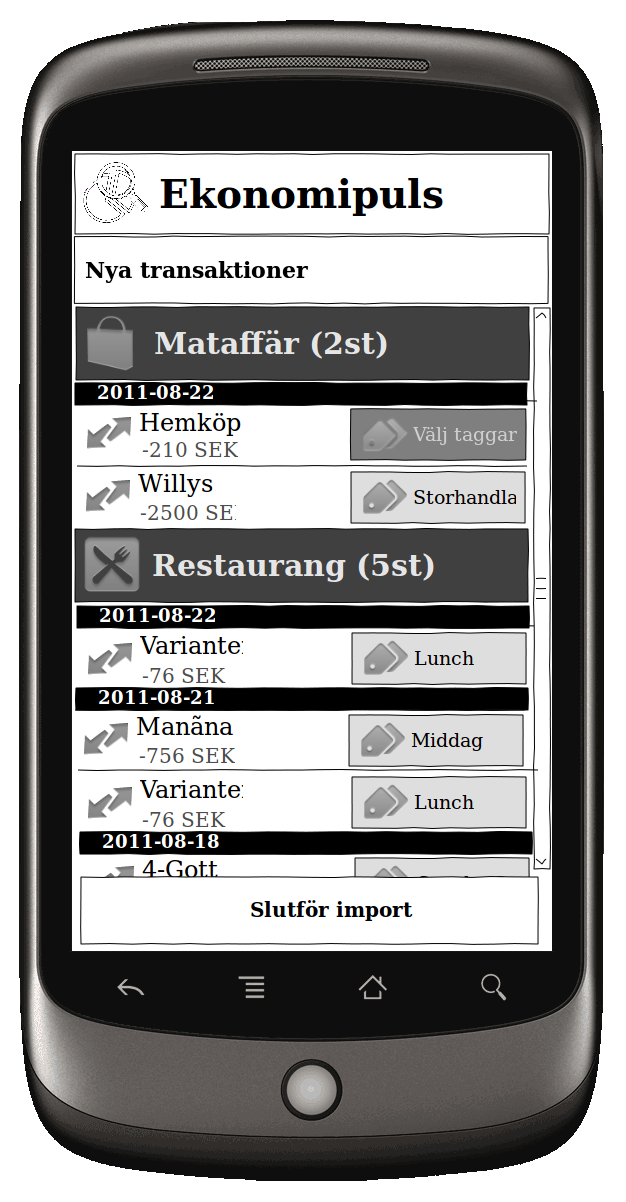
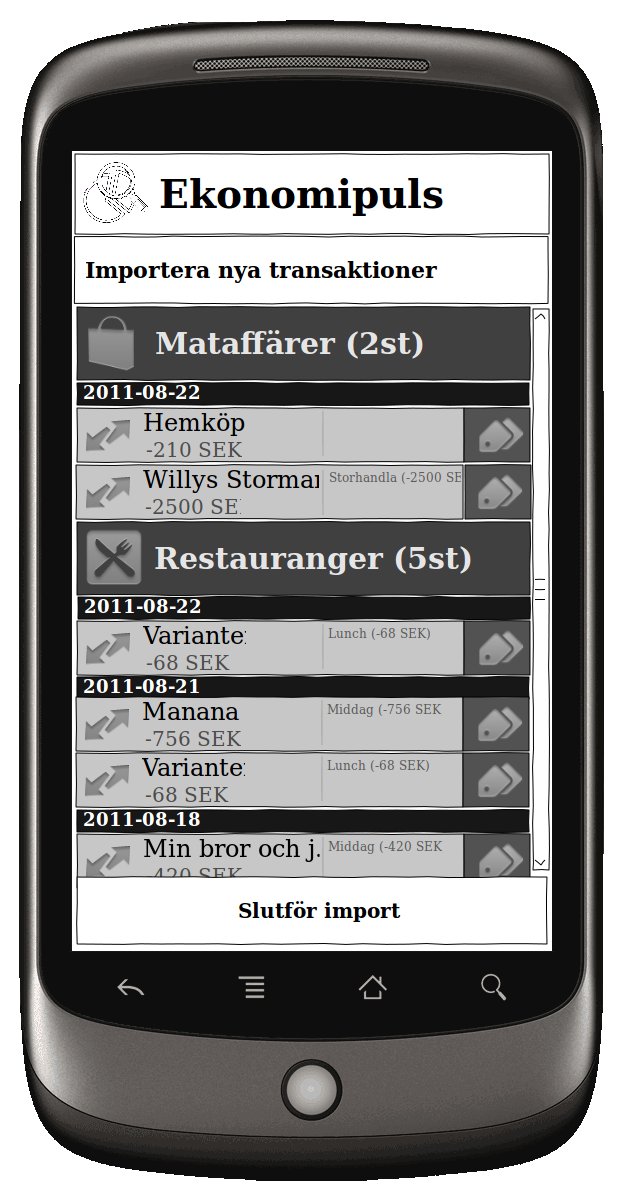
Updating mockup

Changed region(s): [[0.0911, 0.2463, 0.8802, 0.8003], [0.1214, 0.2155, 0.6981, 0.2463]]

diff --git a/mockup/index.html b/mockup/index.html
@@ -4,34 +4,36 @@
                     $('body').layout({ applyDefaultStyles: true,
                             minSize:140 });
                     });
-                </SCRIPT></head><body><div id="leftpanel" class="ui-layout-west"><div class="ThumbContainer"><a href="#wizard_install_bankdroid_page"><img src="pages/wizard_install_bankdroid.png" style="min-width: 100px;" /><hr /><span class="number">1/15</span> -
-                                    Wizard Install BankDroid</a></div><div class="ThumbContainer"><a href="#install_bankdroid_page"><img src="pages/install_bankdroid.png" style="min-width: 100px;" /><hr /><span class="number">2/15</span> -
-                                    Install BankDroid</a></div><div class="ThumbContainer"><a href="#wizard_pair_applications_page"><img src="pages/wizard_pair_applications.png" style="min-width: 100px;" /><hr /><span class="number">3/15</span> -
-                                    Wizard Pair Applications</a></div><div class="ThumbContainer"><a href="#pair_applications_page"><img src="pages/pair_applications.png" style="min-width: 100px;" /><hr /><span class="number">4/15</span> -
-                                    Pair Applications</a></div><div class="ThumbContainer"><a href="#wizard_add_bank_page"><img src="pages/wizard_add_bank.png" style="min-width: 100px;" /><hr /><span class="number">5/15</span> -
-                                    Wizard Add Bank</a></div><div class="ThumbContainer"><a href="#add_bank_page"><img src="pages/add_bank.png" style="min-width: 100px;" /><hr /><span class="number">6/15</span> -
-                                    Add Bank</a></div><div class="ThumbContainer"><a href="#wizard_pick_accounts_page"><img src="pages/wizard_pick_accounts.png" style="min-width: 100px;" /><hr /><span class="number">7/15</span> -
-                                    Wizard Pick Accounts</a></div><div class="ThumbContainer"><a href="#pick_accounts_page"><img src="pages/pick_accounts.png" style="min-width: 100px;" /><hr /><span class="number">8/15</span> -
-                                    Pick Accounts</a></div><div class="ThumbContainer"><a href="#wizard_initial_import_page"><img src="pages/wizard_initial_import.png" style="min-width: 100px;" /><hr /><span class="number">9/15</span> -
-                                    Wizard Initial Import</a></div><div class="ThumbContainer"><a href="#deduplicate_page"><img src="pages/deduplicate.png" style="min-width: 100px;" /><hr /><span class="number">10/15</span> -
-                                    Deduplicate</a></div><div class="ThumbContainer"><a href="#initial_import_page"><img src="pages/initial_import.png" style="min-width: 100px;" /><hr /><span class="number">11/15</span> -
-                                    Initial Import</a></div><div class="ThumbContainer"><a href="#initial_import_pick_tag_1_page"><img src="pages/initial_import_pick_tag_1.png" style="min-width: 100px;" /><hr /><span class="number">12/15</span> -
-                                    Initial Import Pick Tag 1</a></div><div class="ThumbContainer"><a href="#split_amount_page"><img src="pages/split_amount.png" style="min-width: 100px;" /><hr /><span class="number">13/15</span> -
-                                    Split Amount</a></div><div class="ThumbContainer"><a href="#initial_import_pick_tag_2_page"><img src="pages/initial_import_pick_tag_2.png" style="min-width: 100px;" /><hr /><span class="number">14/15</span> -
-                                    Initial Import Pick Tag 2</a></div><div class="ThumbContainer"><a href="#report_view_overview_page"><img src="pages/report_view_overview.png" style="min-width: 100px;" /><hr /><span class="number">15/15</span> -
+                </SCRIPT></head><body><div id="leftpanel" class="ui-layout-west"><div class="ThumbContainer"><a href="#wizard_install_bankdroid_page"><img src="pages/wizard_install_bankdroid.png" style="min-width: 100px;" /><hr /><span class="number">1/16</span> -
+                                    Wizard Install BankDroid</a></div><div class="ThumbContainer"><a href="#install_bankdroid_page"><img src="pages/install_bankdroid.png" style="min-width: 100px;" /><hr /><span class="number">2/16</span> -
+                                    Install BankDroid</a></div><div class="ThumbContainer"><a href="#wizard_pair_applications_page"><img src="pages/wizard_pair_applications.png" style="min-width: 100px;" /><hr /><span class="number">3/16</span> -
+                                    Wizard Pair Applications</a></div><div class="ThumbContainer"><a href="#pair_applications_page"><img src="pages/pair_applications.png" style="min-width: 100px;" /><hr /><span class="number">4/16</span> -
+                                    Pair Applications</a></div><div class="ThumbContainer"><a href="#wizard_add_bank_page"><img src="pages/wizard_add_bank.png" style="min-width: 100px;" /><hr /><span class="number">5/16</span> -
+                                    Wizard Add Bank</a></div><div class="ThumbContainer"><a href="#add_bank_page"><img src="pages/add_bank.png" style="min-width: 100px;" /><hr /><span class="number">6/16</span> -
+                                    Add Bank</a></div><div class="ThumbContainer"><a href="#wizard_pick_accounts_page"><img src="pages/wizard_pick_accounts.png" style="min-width: 100px;" /><hr /><span class="number">7/16</span> -
+                                    Wizard Pick Accounts</a></div><div class="ThumbContainer"><a href="#pick_accounts_page"><img src="pages/pick_accounts.png" style="min-width: 100px;" /><hr /><span class="number">8/16</span> -
+                                    Pick Accounts</a></div><div class="ThumbContainer"><a href="#wizard_initial_import_page"><img src="pages/wizard_initial_import.png" style="min-width: 100px;" /><hr /><span class="number">9/16</span> -
+                                    Wizard Initial Import</a></div><div class="ThumbContainer"><a href="#deduplicate_page"><img src="pages/deduplicate.png" style="min-width: 100px;" /><hr /><span class="number">10/16</span> -
+                                    Deduplicate</a></div><div class="ThumbContainer"><a href="#initial_import_page"><img src="pages/initial_import.png" style="min-width: 100px;" /><hr /><span class="number">11/16</span> -
+                                    Initial Import</a></div><div class="ThumbContainer"><a href="#initial_import_pick_tag_1_page"><img src="pages/initial_import_pick_tag_1.png" style="min-width: 100px;" /><hr /><span class="number">12/16</span> -
+                                    Initial Import Pick Tag 1</a></div><div class="ThumbContainer"><a href="#split_amount_page"><img src="pages/split_amount.png" style="min-width: 100px;" /><hr /><span class="number">13/16</span> -
+                                    Split Amount</a></div><div class="ThumbContainer"><a href="#initial_import_pick_tag_2_page"><img src="pages/initial_import_pick_tag_2.png" style="min-width: 100px;" /><hr /><span class="number">14/16</span> -
+                                    Initial Import Pick Tag 2</a></div><div class="ThumbContainer"><a href="#initial_import_w_tags_page"><img src="pages/initial_import_w_tags.png" style="min-width: 100px;" /><hr /><span class="number">15/16</span> -
+                                    Initial Import w/ Tags</a></div><div class="ThumbContainer"><a href="#report_view_overview_page"><img src="pages/report_view_overview.png" style="min-width: 100px;" /><hr /><span class="number">16/16</span> -
                                     Report View Overview</a></div></div><div id="main" class="ui-layout-center"><div class="Page" id="wizard_install_bankdroid_page"><div class="pageTitle">Wizard Install BankDroid<div class="MainNumber">
-                    Page 1/15</div></div><div class="ImageContainer"><img class="raster" style="max-width: 626px;" src="pages/wizard_install_bankdroid.png" usemap="#map_wizard_install_bankdroid" /></div><map name="map_wizard_install_bankdroid"><area shape="rect" coords="77,536,540,610" href="#install_bankdroid_page" title="Go to page 'Install BankDroid'" /></map></div><div class="Page" id="install_bankdroid_page"><div class="pageTitle">Install BankDroid<div class="MainNumber">
-                    Page 2/15</div></div><div class="ImageContainer"><img class="raster" style="max-width: 626px;" src="pages/install_bankdroid.png" usemap="#map_install_bankdroid" /></div><map name="map_install_bankdroid"><area shape="rect" coords="84,869,541,938" href="#wizard_pair_applications_page" title="Go to page 'Wizard Pair Applications'" /></map></div><div class="Page" id="wizard_pair_applications_page"><div class="pageTitle">Wizard Pair Applications<div class="MainNumber">
-                    Page 3/15</div></div><div class="ImageContainer"><img class="raster" style="max-width: 626px;" src="pages/wizard_pair_applications.png" usemap="#map_wizard_pair_applications" /></div><map name="map_wizard_pair_applications"><area shape="rect" coords="76,614,570.2000122070312,690" href="#pair_applications_page" title="Go to page 'Pair Applications'" /></map></div><div class="Page" id="pair_applications_page"><div class="pageTitle">Pair Applications<div class="MainNumber">
-                    Page 4/15</div></div><div class="ImageContainer"><img class="raster" style="max-width: 626px;" src="pages/pair_applications.png" usemap="#map_pair_applications" /></div><map name="map_pair_applications"><area shape="rect" coords="91,869,541,938" href="#wizard_add_bank_page" title="Go to page 'Wizard Add Bank'" /></map></div><div class="Page" id="wizard_add_bank_page"><div class="pageTitle">Wizard Add Bank<div class="MainNumber">
-                    Page 5/15</div></div><div class="ImageContainer"><img class="raster" style="max-width: 626px;" src="pages/wizard_add_bank.png" usemap="#map_wizard_add_bank" /></div><map name="map_wizard_add_bank"><area shape="rect" coords="74,698,546.4166870117188,772" href="#add_bank_page" title="Go to page 'Add Bank'" /></map></div><div class="Page" id="add_bank_page"><div class="pageTitle">Add Bank<div class="MainNumber">
-                    Page 6/15</div></div><div class="ImageContainer"><img class="raster" style="max-width: 626px;" src="pages/add_bank.png" usemap="#map_add_bank" /></div><map name="map_add_bank"><area shape="rect" coords="88,869,541,938" href="#wizard_pick_accounts_page" title="Go to page 'Wizard Pick Accounts'" /></map></div><div class="Page" id="wizard_pick_accounts_page"><div class="pageTitle">Wizard Pick Accounts<div class="MainNumber">
-                    Page 7/15</div></div><div class="ImageContainer"><img class="raster" style="max-width: 626px;" src="pages/wizard_pick_accounts.png" usemap="#map_wizard_pick_accounts" /></div><map name="map_wizard_pick_accounts"><area shape="rect" coords="73,778,545.4166870117188,852" href="#pick_accounts_page" title="Go to page 'Pick Accounts'" /></map></div><div class="Page" id="pick_accounts_page"><div class="pageTitle">Pick Accounts<div class="MainNumber">
-                    Page 8/15</div></div><div class="ImageContainer"><img class="raster" style="max-width: 626px;" src="pages/pick_accounts.png" usemap="#map_pick_accounts" /></div><map name="map_pick_accounts"><area shape="rect" coords="87,869,541,938" href="#wizard_initial_import_page" title="Go to page 'Wizard Initial Import'" /></map></div><div class="Page" id="wizard_initial_import_page"><div class="pageTitle">Wizard Initial Import<div class="MainNumber">
-                    Page 9/15</div></div><div class="ImageContainer"><img class="raster" style="max-width: 626px;" src="pages/wizard_initial_import.png" usemap="#map_wizard_initial_import" /></div><map name="map_wizard_initial_import"><area shape="rect" coords="73,864,545.4166870117188,938" href="#deduplicate_page" title="Go to page 'Deduplicate'" /></map></div><div class="Page" id="deduplicate_page"><div class="pageTitle">Deduplicate<div class="MainNumber">
-                    Page 10/15</div></div><div class="ImageContainer"><img class="raster" style="max-width: 626px;" src="pages/deduplicate.png" usemap="#map_deduplicate" /></div><map name="map_deduplicate"><area shape="rect" coords="80,877,539,946" href="#initial_import_page" title="Go to page 'Initial Import'" /></map></div><div class="Page" id="initial_import_page"><div class="pageTitle">Initial Import<div class="MainNumber">
-                    Page 11/15</div></div><div class="ImageContainer"><img class="raster" style="max-width: 626px;" src="pages/initial_import.png" usemap="#map_initial_import" /></div><map name="map_initial_import"><area shape="rect" coords="80,876,539,945" href="#report_view_overview_page" title="Go to page 'Report View Overview'" /><area shape="rect" coords="349,404,527,465" href="#initial_import_pick_tag_1_page" title="Go to page 'Initial Import Pick Tag 1'" /></map></div><div class="Page" id="initial_import_pick_tag_1_page"><div class="pageTitle">Initial Import Pick Tag 1<div class="MainNumber">
-                    Page 12/15</div></div><div class="ImageContainer"><img class="raster" style="max-width: 626px;" src="pages/initial_import_pick_tag_1.png" usemap="#map_initial_import_pick_tag_1" /></div><map name="map_initial_import_pick_tag_1"><area shape="rect" coords="96,825,302,912" href="#split_amount_page" title="Go to page 'Split Amount'" /><area shape="rect" coords="307,838,525,900" href="#initial_import_page" title="Go to page 'Initial Import'" /></map></div><div class="Page" id="split_amount_page"><div class="pageTitle">Split Amount<div class="MainNumber">
-                    Page 13/15</div></div><div class="ImageContainer"><img class="raster" style="max-width: 626px;" src="pages/split_amount.png" usemap="#map_split_amount" /></div><map name="map_split_amount"><area shape="rect" coords="108,509,523,571" href="#initial_import_pick_tag_2_page" title="Go to page 'Initial Import Pick Tag 2'" /></map></div><div class="Page" id="initial_import_pick_tag_2_page"><div class="pageTitle">Initial Import Pick Tag 2<div class="MainNumber">
-                    Page 14/15</div></div><div class="ImageContainer"><img class="raster" style="max-width: 626px;" src="pages/initial_import_pick_tag_2.png" usemap="#map_initial_import_pick_tag_2" /></div><map name="map_initial_import_pick_tag_2"><area shape="rect" coords="96,825,302,912" href="#split_amount_page" title="Go to page 'Split Amount'" /><area shape="rect" coords="307,838,525,900" href="#initial_import_page" title="Go to page 'Initial Import'" /></map></div><div class="Page" id="report_view_overview_page"><div class="pageTitle">Report View Overview<div class="MainNumber">
-                    Page 15/15</div></div><div class="ImageContainer"><img class="raster" style="max-width: 626px;" src="pages/report_view_overview.png" usemap="#map_report_view_overview" /></div><map name="map_report_view_overview"></map></div></div></body></html>
+                    Page 1/16</div></div><div class="ImageContainer"><img class="raster" style="max-width: 626px;" src="pages/wizard_install_bankdroid.png" usemap="#map_wizard_install_bankdroid" /></div><map name="map_wizard_install_bankdroid"><area shape="rect" coords="77,536,540,610" href="#install_bankdroid_page" title="Go to page 'Install BankDroid'" /></map></div><div class="Page" id="install_bankdroid_page"><div class="pageTitle">Install BankDroid<div class="MainNumber">
+                    Page 2/16</div></div><div class="ImageContainer"><img class="raster" style="max-width: 626px;" src="pages/install_bankdroid.png" usemap="#map_install_bankdroid" /></div><map name="map_install_bankdroid"><area shape="rect" coords="84,869,541,938" href="#wizard_pair_applications_page" title="Go to page 'Wizard Pair Applications'" /></map></div><div class="Page" id="wizard_pair_applications_page"><div class="pageTitle">Wizard Pair Applications<div class="MainNumber">
+                    Page 3/16</div></div><div class="ImageContainer"><img class="raster" style="max-width: 626px;" src="pages/wizard_pair_applications.png" usemap="#map_wizard_pair_applications" /></div><map name="map_wizard_pair_applications"><area shape="rect" coords="76,614,570.2000122070312,690" href="#pair_applications_page" title="Go to page 'Pair Applications'" /></map></div><div class="Page" id="pair_applications_page"><div class="pageTitle">Pair Applications<div class="MainNumber">
+                    Page 4/16</div></div><div class="ImageContainer"><img class="raster" style="max-width: 626px;" src="pages/pair_applications.png" usemap="#map_pair_applications" /></div><map name="map_pair_applications"><area shape="rect" coords="91,869,541,938" href="#wizard_add_bank_page" title="Go to page 'Wizard Add Bank'" /></map></div><div class="Page" id="wizard_add_bank_page"><div class="pageTitle">Wizard Add Bank<div class="MainNumber">
+                    Page 5/16</div></div><div class="ImageContainer"><img class="raster" style="max-width: 626px;" src="pages/wizard_add_bank.png" usemap="#map_wizard_add_bank" /></div><map name="map_wizard_add_bank"><area shape="rect" coords="74,698,546.4166870117188,772" href="#add_bank_page" title="Go to page 'Add Bank'" /></map></div><div class="Page" id="add_bank_page"><div class="pageTitle">Add Bank<div class="MainNumber">
+                    Page 6/16</div></div><div class="ImageContainer"><img class="raster" style="max-width: 626px;" src="pages/add_bank.png" usemap="#map_add_bank" /></div><map name="map_add_bank"><area shape="rect" coords="88,869,541,938" href="#wizard_pick_accounts_page" title="Go to page 'Wizard Pick Accounts'" /></map></div><div class="Page" id="wizard_pick_accounts_page"><div class="pageTitle">Wizard Pick Accounts<div class="MainNumber">
+                    Page 7/16</div></div><div class="ImageContainer"><img class="raster" style="max-width: 626px;" src="pages/wizard_pick_accounts.png" usemap="#map_wizard_pick_accounts" /></div><map name="map_wizard_pick_accounts"><area shape="rect" coords="73,778,545.4166870117188,852" href="#pick_accounts_page" title="Go to page 'Pick Accounts'" /></map></div><div class="Page" id="pick_accounts_page"><div class="pageTitle">Pick Accounts<div class="MainNumber">
+                    Page 8/16</div></div><div class="ImageContainer"><img class="raster" style="max-width: 626px;" src="pages/pick_accounts.png" usemap="#map_pick_accounts" /></div><map name="map_pick_accounts"><area shape="rect" coords="87,869,541,938" href="#wizard_initial_import_page" title="Go to page 'Wizard Initial Import'" /></map></div><div class="Page" id="wizard_initial_import_page"><div class="pageTitle">Wizard Initial Import<div class="MainNumber">
+                    Page 9/16</div></div><div class="ImageContainer"><img class="raster" style="max-width: 626px;" src="pages/wizard_initial_import.png" usemap="#map_wizard_initial_import" /></div><map name="map_wizard_initial_import"><area shape="rect" coords="73,864,545.4166870117188,938" href="#deduplicate_page" title="Go to page 'Deduplicate'" /></map></div><div class="Page" id="deduplicate_page"><div class="pageTitle">Deduplicate<div class="MainNumber">
+                    Page 10/16</div></div><div class="ImageContainer"><img class="raster" style="max-width: 626px;" src="pages/deduplicate.png" usemap="#map_deduplicate" /></div><map name="map_deduplicate"><area shape="rect" coords="80,877,539,946" href="#initial_import_page" title="Go to page 'Initial Import'" /></map></div><div class="Page" id="initial_import_page"><div class="pageTitle">Initial Import<div class="MainNumber">
+                    Page 11/16</div></div><div class="ImageContainer"><img class="raster" style="max-width: 626px;" src="pages/initial_import.png" usemap="#map_initial_import" /></div><map name="map_initial_import"><area shape="rect" coords="463,405,533,466" href="#initial_import_pick_tag_1_page" title="Go to page 'Initial Import Pick Tag 1'" /><area shape="rect" coords="76,876,548,945" href="#report_view_overview_page" title="Go to page 'Report View Overview'" /></map></div><div class="Page" id="initial_import_pick_tag_1_page"><div class="pageTitle">Initial Import Pick Tag 1<div class="MainNumber">
+                    Page 12/16</div></div><div class="ImageContainer"><img class="raster" style="max-width: 626px;" src="pages/initial_import_pick_tag_1.png" usemap="#map_initial_import_pick_tag_1" /></div><map name="map_initial_import_pick_tag_1"><area shape="rect" coords="96,825,302,912" href="#split_amount_page" title="Go to page 'Split Amount'" /><area shape="rect" coords="307,838,525,900" href="#initial_import_page" title="Go to page 'Initial Import'" /></map></div><div class="Page" id="split_amount_page"><div class="pageTitle">Split Amount<div class="MainNumber">
+                    Page 13/16</div></div><div class="ImageContainer"><img class="raster" style="max-width: 626px;" src="pages/split_amount.png" usemap="#map_split_amount" /></div><map name="map_split_amount"><area shape="rect" coords="108,509,523,571" href="#initial_import_pick_tag_2_page" title="Go to page 'Initial Import Pick Tag 2'" /></map></div><div class="Page" id="initial_import_pick_tag_2_page"><div class="pageTitle">Initial Import Pick Tag 2<div class="MainNumber">
+                    Page 14/16</div></div><div class="ImageContainer"><img class="raster" style="max-width: 626px;" src="pages/initial_import_pick_tag_2.png" usemap="#map_initial_import_pick_tag_2" /></div><map name="map_initial_import_pick_tag_2"><area shape="rect" coords="96,825,302,912" href="#split_amount_page" title="Go to page 'Split Amount'" /><area shape="rect" coords="307,838,525,900" href="#initial_import_w_tags_page" title="Go to page 'Initial Import w/ Tags'" /></map></div><div class="Page" id="initial_import_w_tags_page"><div class="pageTitle">Initial Import w/ Tags<div class="MainNumber">
+                    Page 15/16</div></div><div class="ImageContainer"><img class="raster" style="max-width: 626px;" src="pages/initial_import_w_tags.png" usemap="#map_initial_import_w_tags" /></div><map name="map_initial_import_w_tags"><area shape="rect" coords="463,405,533,466" href="#initial_import_pick_tag_1_page" title="Go to page 'Initial Import Pick Tag 1'" /><area shape="rect" coords="76,876,548,945" href="#report_view_overview_page" title="Go to page 'Report View Overview'" /></map></div><div class="Page" id="report_view_overview_page"><div class="pageTitle">Report View Overview<div class="MainNumber">
+                    Page 16/16</div></div><div class="ImageContainer"><img class="raster" style="max-width: 626px;" src="pages/report_view_overview.png" usemap="#map_report_view_overview" /></div><map name="map_report_view_overview"></map></div></div></body></html>
